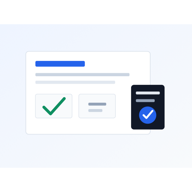
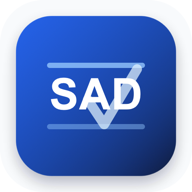
Polish push notification content

diff --git a/supabase/functions/send-push/index.ts b/supabase/functions/send-push/index.ts
@@ -81,7 +81,7 @@ Deno.serve(async (request) => {
 
   const requestInfo = await findRequestInfo(supabase, notification);
   const payload = JSON.stringify({
-    title: "SAD",
+    title: pushTitle(notification),
     body: pushBody(notification, requestInfo),
     notificationId: notification.id,
     requestId: requestInfo?.id || "",
@@ -148,17 +148,14 @@ async function findRequestInfo(supabase: ReturnType<typeof createAdminClient>, n
 }
 
 function pushBody(notification: NotificationRecord, requestInfo: RequestInfo | null) {
-  if (!requestInfo) return notification.mensaje || "Tienes una nueva notificacion.";
+  if (!requestInfo) return cleanMessage(notification.mensaje) || "Tienes una nueva notificacion.";
 
   const actor = actorName(notification, requestInfo);
-  const action = actionText(notification);
   const title = requestInfo.titulo || requestInfo.codigo;
-  const status = requestInfo.estado || notification.titulo.replace(/^Solicitud\s+/i, "");
+  const status = friendlyStatus(requestInfo.estado || notification.titulo.replace(/^Solicitud\s+/i, ""));
+  const summary = `${title} - ${status}`;
 
-  if (actor) {
-    return `${actor} ${action}. ${title} · ${status}`;
-  }
-  return `${action}. ${title} · ${status}`;
+  return actor ? `${actor}: ${summary}` : summary;
 }
 
 function actorName(notification: NotificationRecord, requestInfo: RequestInfo) {
@@ -170,14 +167,28 @@ function actorName(notification: NotificationRecord, requestInfo: RequestInfo) {
   return fullName || profile?.correo || "";
 }
 
-function actionText(notification: NotificationRecord) {
+function pushTitle(notification: NotificationRecord) {
   const title = notification.titulo.toLowerCase();
-  if (title.includes("asignada")) return "creo una solicitud";
-  if (title.includes("aprobado")) return "aprobo la solicitud";
-  if (title.includes("rechazado")) return "rechazo la solicitud";
-  if (title.includes("correccion")) return "solicito revision";
-  if (title.includes("cancelado")) return "cancelo la solicitud";
-  return "actualizo la solicitud";
+  if (title.includes("asignada")) return "Nueva solicitud asignada";
+  if (title.includes("corregida")) return "Solicitud corregida";
+  if (title.includes("correccion")) return "Correccion solicitada";
+  if (title.includes("aprobado") || title.includes("aprobada")) return "Solicitud aprobada";
+  if (title.includes("rechazado") || title.includes("rechazada")) return "Solicitud rechazada";
+  if (title.includes("cancelado") || title.includes("cancelada")) return "Solicitud cancelada";
+  return notification.titulo || "Actualizacion de solicitud";
+}
+
+function friendlyStatus(status: string) {
+  const normalized = status.replace(/^Solicitud\s+/i, "").trim();
+  if (!normalized) return "Actualizada";
+  if (normalized.toLowerCase() === "aprobado") return "Aprobada";
+  if (normalized.toLowerCase() === "rechazado") return "Rechazada";
+  if (normalized.toLowerCase() === "cancelado") return "Cancelada";
+  return normalized;
+}
+
+function cleanMessage(message: string) {
+  return message.replace(/AUT-\d{4}-\d{6}:?\s*/i, "").trim();
 }
 
 function json(payload: unknown, status = 200) {

diff --git a/js/services/browserNotifications.js b/js/services/browserNotifications.js
@@ -1,5 +1,5 @@
 import { APP_CONFIG } from "../config.js";
-import { dataService } from "./dataService.js?v=20260708-10";
+import { dataService } from "./dataService.js?v=20260708-11";
 import { getSupabase } from "./supabaseClient.js";
 
 const POLL_INTERVAL_MS = 30000;
@@ -72,7 +72,7 @@ export async function ensurePushSubscription(user, options = {}) {
 
 export function showBrowserNotification(notification, options = {}) {
   if (browserNotificationState() !== "granted") return null;
-  const title = notification?.titulo || options.title || "SAD";
+  const title = notificationTitle(notification) || options.title || "SAD";
   const body = notificationBody(notification) || options.body || "Tienes una nueva notificacion.";
   const browserNotification = new Notification(title, {
     body,
@@ -98,7 +98,7 @@ export async function showServiceWorkerNotification(notification, options = {}) 
     throw new Error("Las notificaciones no estan permitidas en este navegador.");
   }
 
-  const title = notification?.titulo || options.title || "SAD";
+  const title = notificationTitle(notification) || options.title || "SAD";
   const body = notificationBody(notification) || options.body || "Tienes una nueva notificacion.";
 
   if (!("serviceWorker" in navigator)) {
@@ -259,15 +259,45 @@ function notificationBody(notification) {
   return notification.mensaje || "Tienes una nueva notificacion.";
 }
 
+function notificationTitle(notification) {
+  const title = `${notification?.titulo || ""}`.toLowerCase();
+  if (title.includes("asignada")) return "Nueva solicitud asignada";
+  if (title.includes("corregida")) return "Solicitud corregida";
+  if (title.includes("correccion")) return "Correccion solicitada";
+  if (title.includes("aprobado") || title.includes("aprobada")) return "Solicitud aprobada";
+  if (title.includes("rechazado") || title.includes("rechazada")) return "Solicitud rechazada";
+  if (title.includes("cancelado") || title.includes("cancelada")) return "Solicitud cancelada";
+  return notification?.titulo || "";
+}
+
 function notificationActionText(notification, request) {
-  const action = notification.titulo || "Actualizacion de solicitud";
-  return `${request.titulo} · ${action}`;
+  const actor = actorName(notification, request);
+  const summary = `${request.titulo} - ${friendlyStatus(request.estado || notificationTitle(notification))}`;
+  return actor ? `${actor}: ${summary}` : summary;
 }
 
 function requestFromNotification(notification) {
   const code = extractRequestCode(`${notification?.titulo || ""} ${notification?.mensaje || ""}`);
   if (!code) return null;
   return (latestData?.solicitudes || []).find((item) => item.codigo?.toLowerCase() === code.toLowerCase()) || null;
+}
+
+function actorName(notification, request) {
+  const title = `${notification?.titulo || ""}`.toLowerCase();
+  const profile = title.includes("asignada")
+    ? request.creador
+    : request.aprobador || request.creador;
+  const fullName = `${profile?.nombre || ""} ${profile?.apellido || ""}`.trim();
+  return fullName || profile?.correo || "";
+}
+
+function friendlyStatus(status = "") {
+  const normalized = status.replace(/^Solicitud\s+/i, "").trim();
+  if (!normalized) return "Actualizada";
+  if (normalized.toLowerCase() === "aprobado") return "Aprobada";
+  if (normalized.toLowerCase() === "rechazado") return "Rechazada";
+  if (normalized.toLowerCase() === "cancelado") return "Cancelada";
+  return normalized;
 }
 
 function stripRequestCode(text = "") {

diff --git a/js/app.js b/js/app.js
@@ -1,16 +1,16 @@
-import { renderLoginShell, renderAppShell } from "./components/layout.js?v=20260708-10";
-import { closeModal, openModal } from "./components/modal.js?v=20260708-10";
-import { toast } from "./components/toast.js?v=20260708-10";
-import { dataService } from "./services/dataService.js?v=20260708-10";
-import { renderDashboard } from "./pages/dashboard.js?v=20260708-10";
-import { renderNewRequest } from "./pages/newRequest.js?v=20260708-10";
-import { renderRequestsTable } from "./pages/requestsTable.js?v=20260708-10";
-import { renderRequestDetail } from "./pages/requestDetail.js?v=20260708-10";
-import { renderUsers } from "./pages/users.js?v=20260708-10";
-import { renderCatalogs } from "./pages/catalogs.js?v=20260708-10";
-import { renderProfile } from "./pages/profile.js?v=20260708-10";
-import { renderNotifications } from "./pages/notifications.js?v=20260708-10";
-import { startBrowserNotificationStream, stopBrowserNotificationStream } from "./services/browserNotifications.js?v=20260708-10";
+import { renderLoginShell, renderAppShell } from "./components/layout.js?v=20260708-11";
+import { closeModal, openModal } from "./components/modal.js?v=20260708-11";
+import { toast } from "./components/toast.js?v=20260708-11";
+import { dataService } from "./services/dataService.js?v=20260708-11";
+import { renderDashboard } from "./pages/dashboard.js?v=20260708-11";
+import { renderNewRequest } from "./pages/newRequest.js?v=20260708-11";
+import { renderRequestsTable } from "./pages/requestsTable.js?v=20260708-11";
+import { renderRequestDetail } from "./pages/requestDetail.js?v=20260708-11";
+import { renderUsers } from "./pages/users.js?v=20260708-11";
+import { renderCatalogs } from "./pages/catalogs.js?v=20260708-11";
+import { renderProfile } from "./pages/profile.js?v=20260708-11";
+import { renderNotifications } from "./pages/notifications.js?v=20260708-11";
+import { startBrowserNotificationStream, stopBrowserNotificationStream } from "./services/browserNotifications.js?v=20260708-11";
 import { ROLES, STATUS } from "./utils/constants.js";
 
 const root = document.querySelector("#app");

diff --git a/index.html b/index.html
@@ -11,11 +11,11 @@
     <meta name="apple-mobile-web-app-title" content="SAD">
     <meta name="apple-mobile-web-app-status-bar-style" content="default">
     <meta http-equiv="Content-Security-Policy" content="default-src 'self'; base-uri 'self'; object-src 'none'; script-src 'self' https://cdn.jsdelivr.net; style-src 'self' 'unsafe-inline' https://cdn.jsdelivr.net; img-src 'self' data: blob: https://*.supabase.co; font-src 'self' data: https://cdn.jsdelivr.net; connect-src 'self' https://*.supabase.co wss://*.supabase.co https://cdn.jsdelivr.net; frame-src 'self' data: blob: https://*.supabase.co; worker-src 'self' blob: https://cdn.jsdelivr.net; form-action 'self'; upgrade-insecure-requests">
-    <link rel="manifest" href="./manifest.webmanifest?v=20260708-10">
+    <link rel="manifest" href="./manifest.webmanifest?v=20260708-11">
     <link rel="apple-touch-icon" href="./assets/apple-touch-icon.png">
     <link href="https://cdn.jsdelivr.net/npm/bootstrap@5.3.8/dist/css/bootstrap.min.css" rel="stylesheet" integrity="sha384-sRIl4kxILFvY47J16cr9ZwB07vP4J8+LH7qKQnuqkuIAvNWLzeN8tE5YBujZqJLB" crossorigin="anonymous">
     <link href="https://cdn.jsdelivr.net/npm/sweetalert2@11.26.25/dist/sweetalert2.min.css" rel="stylesheet" integrity="sha384-dCW5imOdApH6OwpFau8cZNKjqVbJYnCA5q+8YsMYP3XwXKsV6Jfz1u6MZLnXaBsS" crossorigin="anonymous">
-    <link rel="stylesheet" href="./css/styles.css?v=20260708-10">
+    <link rel="stylesheet" href="./css/styles.css?v=20260708-11">
   </head>
   <body>
     <noscript>Necesitas habilitar JavaScript para usar SAD.</noscript>
@@ -24,6 +24,6 @@
     <div id="modal-root"></div>
     <script src="https://cdn.jsdelivr.net/npm/bootstrap@5.3.8/dist/js/bootstrap.bundle.min.js" integrity="sha384-FKyoEForCGlyvwx9Hj09JcYn3nv7wiPVlz7YYwJrWVcXK/BmnVDxM+D2scQbITxI" crossorigin="anonymous"></script>
     <script src="https://cdn.jsdelivr.net/npm/sweetalert2@11.26.25/dist/sweetalert2.all.min.js" integrity="sha384-nLoOnA/BDh8A/jxqtckg4DumuCGOBYUnNJLZdQz/zfYNp3wcjGSoWTAzgko06G/2" crossorigin="anonymous"></script>
-    <script type="module" src="./js/app.js?v=20260708-10"></script>
+    <script type="module" src="./js/app.js?v=20260708-11"></script>
   </body>
 </html>

diff --git a/js/pages/newRequest.js b/js/pages/newRequest.js
@@ -1,8 +1,8 @@
 import { PRIORITIES } from "../utils/constants.js";
-import { validateFiles } from "../utils/validators.js?v=20260708-10";
+import { validateFiles } from "../utils/validators.js?v=20260708-11";
 import { pageTitle } from "../components/layout.js";
-import { dataService } from "../services/dataService.js?v=20260708-10";
-import * as toastApi from "../components/toast.js?v=20260708-10";
+import { dataService } from "../services/dataService.js?v=20260708-11";
+import * as toastApi from "../components/toast.js?v=20260708-11";
 import { icon } from "../components/icons.js";
 import { escapeAttr, escapeHtml } from "../utils/security.js";
 

diff --git a/js/pages/notifications.js b/js/pages/notifications.js
@@ -1,7 +1,7 @@
 import { formatDate } from "../utils/format.js";
-import { dataService } from "../services/dataService.js?v=20260708-10";
-import { browserNotificationState, pushNotificationState, requestBrowserNotificationPermission, showServiceWorkerNotification } from "../services/browserNotifications.js?v=20260708-10";
-import { toast } from "../components/toast.js?v=20260708-10";
+import { dataService } from "../services/dataService.js?v=20260708-11";
+import { browserNotificationState, pushNotificationState, requestBrowserNotificationPermission, showServiceWorkerNotification } from "../services/browserNotifications.js?v=20260708-11";
+import { toast } from "../components/toast.js?v=20260708-11";
 import { icon } from "../components/icons.js";
 import { escapeAttr, escapeHtml } from "../utils/security.js";
 

diff --git a/js/pages/requestDetail.js b/js/pages/requestDetail.js
@@ -1,8 +1,8 @@
 import { PRIORITIES, ROLES, STATUS } from "../utils/constants.js";
 import { formatBytes, formatDate } from "../utils/format.js";
-import { dataService } from "../services/dataService.js?v=20260708-10";
-import { toast } from "../components/toast.js?v=20260708-10";
-import { closeModal } from "../components/modal.js?v=20260708-10";
+import { dataService } from "../services/dataService.js?v=20260708-11";
+import { toast } from "../components/toast.js?v=20260708-11";
+import { closeModal } from "../components/modal.js?v=20260708-11";
 import { icon } from "../components/icons.js";
 import { escapeAttr, escapeHtml, textOrDash } from "../utils/security.js";
 

diff --git a/js/pages/catalogs.js b/js/pages/catalogs.js
@@ -1,6 +1,6 @@
 import { pageTitle } from "../components/layout.js";
-import { dataService } from "../services/dataService.js?v=20260708-10";
-import { toast } from "../components/toast.js?v=20260708-10";
+import { dataService } from "../services/dataService.js?v=20260708-11";
+import { toast } from "../components/toast.js?v=20260708-11";
 import { escapeAttr, escapeHtml, textOrDash } from "../utils/security.js";
 
 export function renderCatalogs({ data, refresh }) {

diff --git a/js/pages/requestsTable.js b/js/pages/requestsTable.js
@@ -1,9 +1,9 @@
 import { ROLES } from "../utils/constants.js";
-import { formatDateTimeCompact, normalize } from "../utils/format.js?v=20260708-10";
+import { formatDateTimeCompact, normalize } from "../utils/format.js?v=20260708-11";
 import { icon } from "../components/icons.js";
 import { pageTitle } from "../components/layout.js";
 import { openModal } from "../components/modal.js";
-import { renderRequestDetail } from "./requestDetail.js?v=20260708-10";
+import { renderRequestDetail } from "./requestDetail.js?v=20260708-11";
 import { escapeAttr, escapeHtml, textOrDash } from "../utils/security.js";
 
 export function renderRequestsTable({ mode, user, data, refresh }) {

diff --git a/js/pages/users.js b/js/pages/users.js
@@ -1,7 +1,7 @@
 import { ROLES, ROLE_LABELS } from "../utils/constants.js";
 import { pageTitle } from "../components/layout.js";
-import { dataService } from "../services/dataService.js?v=20260708-10";
-import { toast } from "../components/toast.js?v=20260708-10";
+import { dataService } from "../services/dataService.js?v=20260708-11";
+import { toast } from "../components/toast.js?v=20260708-11";
 import { escapeAttr, escapeHtml, textOrDash } from "../utils/security.js";
 
 export function renderUsers({ data, refresh }) {